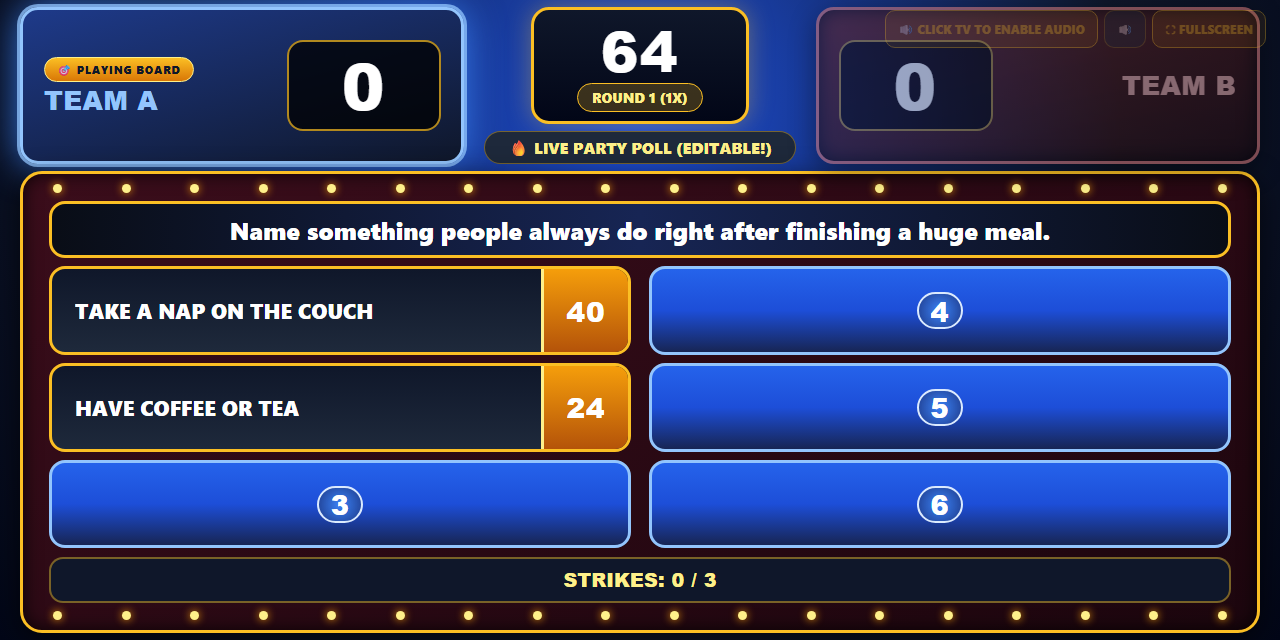
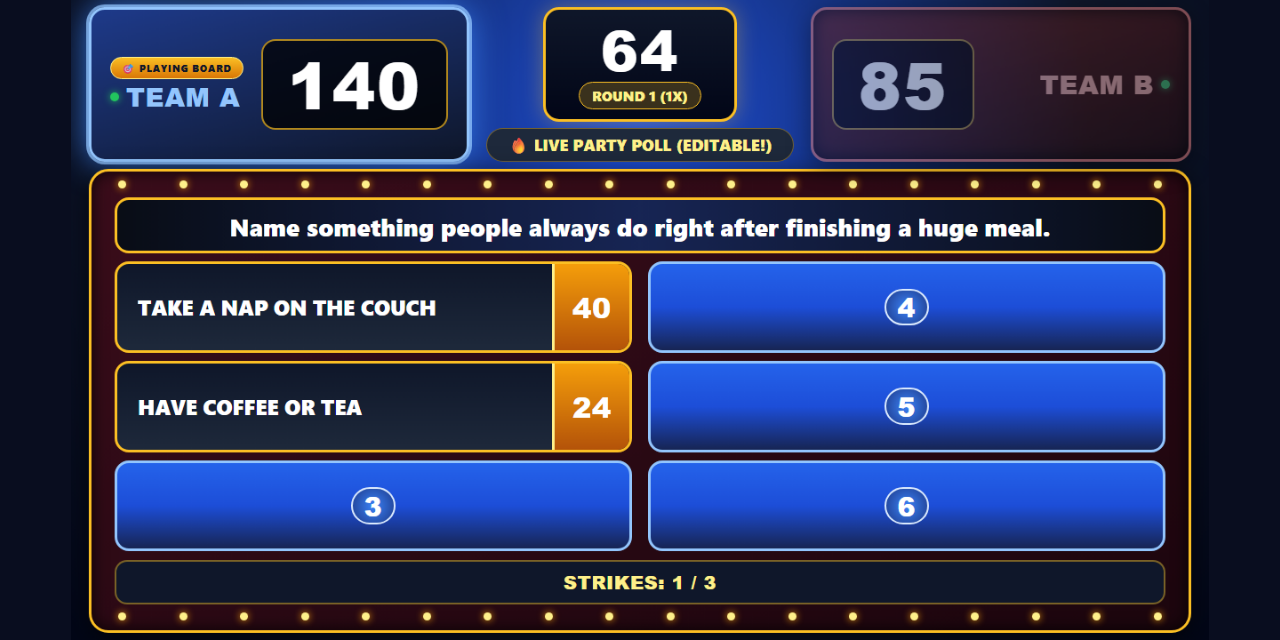
feat(tv): add HUD buzzer status dots and per-team QR token lockout across matches
- Add green/red buzzer status dots (#tvT1BuzzerDot, #tvT2BuzzerDot) next to
  each team name on the TV HUD (index.html, css/styles.css, js/views.js).
- Add per-team QR tokens (?bt=) in js/state.js, js/app.js, and js/views.js so
  returning teams and Combo Buzzers stay connected across Next Match /
  Tournament transitions while eliminated phones are locked out with a
  "Match Over" message and the TV Welcome Screen re-appears for new teams.
- Add E2E assertions for TV HUD buzzer dots, Next Match Combo persistence,
  and stale token lockout in scripts/test-ui-e2e.js.
- Update README.md and refresh docs/screenshots/{tv-welcome,tv-board,
  host-remote,team-buzzer,combo-buzzer,social-preview}.png.

Changed region(s): [[0.0, 0.0, 1.0, 1.0], [0.8125, 0.0, 1.0, 0.1875], [0.4688, 0.6875, 0.5312, 0.75]]

diff --git a/js/app.js b/js/app.js
@@ -12,6 +12,7 @@ window.Feud = window.Feud || {};
 (function (Feud) {
   let activeRole = "lobby"; // 'lobby' | 'host' | 'tv' | 'buzzer1' | 'buzzer2' | 'solo'
   let currentRoomCode = "";
+  let localBuzzerToken = "";
   let roomState = Feud.createDefaultRoomState("1234");
 
   let lastStrikeSeq = 0;
@@ -280,6 +281,17 @@ window.Feud = window.Feud || {};
         Boolean(roomState.questionRevealed) &&
         !roomState.buzzerWinner;
       roomState = { ...roomState, ...incoming };
+      if (activeRole === "buzzer1" || activeRole === "buzzer2") {
+        const tKey = activeRole === "buzzer1" ? "t1" : "t2";
+        const expectedTok = incoming.buzzerTokens && incoming.buzzerTokens[tKey];
+        if (localBuzzerToken && expectedTok && expectedTok !== localBuzzerToken) {
+          roomState._localBuzzerStale = true;
+          renderActiveView();
+          if (Feud.cleanupSync) Feud.cleanupSync();
+          Feud.showToast("🏁 Match Over — New teams are playing!");
+          return;
+        }
+      }
       const nowBuzzArmed =
         (roomState.roundPhase || (roomState.questionRevealed ? "faceoff-buzz" : "faceoff-ready")) === "faceoff-buzz" &&
         Boolean(roomState.questionRevealed) &&
@@ -1162,6 +1174,8 @@ window.Feud = window.Feud || {};
       pot: 0,
       strikes: 0,
       buzzerWinner: 0,
+      buzzerTokens: { t1: Feud.generateRoomCode(), t2: Feud.generateRoomCode() },
+      buzzerStatus: { b1: false, b2: false, combo: false },
       showTvWelcome: mode === "host" && !isFileProtocol(),
       tvWelcomeInfo: null,
       fmClock: 20,
@@ -1387,9 +1401,6 @@ window.Feud = window.Feud || {};
 
     roomState = { ...roomState, ...conn.state };
     currentRoomCode = code;
-    if (roomState.showTvWelcome) {
-      roomState.tvWelcomeInfo = buildTvWelcomeInfo("individual", null, code);
-    }
     syncSequenceCounters(roomState);
     // An auto-launched TV window shares localStorage with the Host window — don't overwrite the Host's saved session/PIN
     if (!autoLaunched) Feud.saveLastSession("tv", code);
@@ -1476,11 +1487,20 @@ window.Feud = window.Feud || {};
     });
     if (!conn || conn.handedOffToPopup) return;
 
-    roomState = { ...roomState, ...conn.state };
-    currentRoomCode = code;
-    if (roomState.showTvWelcome) {
-      roomState.tvWelcomeInfo = buildTvWelcomeInfo("individual", null, code);
+    const urlBt = (new URLSearchParams(window.location.search).get("bt") || "").trim();
+    const tKey = teamNum === 1 ? "t1" : "t2";
+    const expectedTok = (conn.state && conn.state.buzzerTokens && conn.state.buzzerTokens[tKey]) || "";
+    if (urlBt && expectedTok && urlBt !== expectedTok) {
+      roomState = { ...roomState, ...conn.state, _localBuzzerStale: true };
+      currentRoomCode = code;
+      enterRole(role, code);
+      if (Feud.cleanupSync) Feud.cleanupSync();
+      Feud.showToast("🏁 This QR code expired — scan the new team's QR!");
+      return;
     }
+    localBuzzerToken = urlBt || expectedTok;
+    roomState = { ...roomState, ...conn.state, _localBuzzerStale: false };
+    currentRoomCode = code;
     syncSequenceCounters(roomState);
     Feud.saveLastSession(role, code);
     enterRole(role, code);
@@ -1511,9 +1531,6 @@ window.Feud = window.Feud || {};
 
     roomState = { ...roomState, ...conn.state };
     currentRoomCode = code;
-    if (roomState.showTvWelcome) {
-      roomState.tvWelcomeInfo = buildTvWelcomeInfo("individual", null, code);
-    }
     syncSequenceCounters(roomState);
     Feud.saveLastSession(role, code);
     enterRole(role, code);
@@ -1983,6 +2000,23 @@ window.Feud = window.Feud || {};
       nextTournament = Feud.createTournamentBracket(nextTournament.teams);
     }
 
+    const oldTokens = (roomState && roomState.buzzerTokens) || { t1: "T1A", t2: "T2A" };
+    const t1Changed = String(t1).trim().toLowerCase() !== String(roomState.team1Name || "").trim().toLowerCase();
+    const t2Changed = String(t2).trim().toLowerCase() !== String(roomState.team2Name || "").trim().toLowerCase();
+    const nextTokens = {
+      t1: t1Changed ? Feud.generateRoomCode() : oldTokens.t1,
+      t2: t2Changed ? Feud.generateRoomCode() : oldTokens.t2
+    };
+    const curBz = Feud.getConnectedBuzzerTeams ? Feud.getConnectedBuzzerTeams() : {};
+    const nextBz = {
+      b1: t1Changed ? false : Boolean(curBz.b1),
+      b2: t2Changed ? false : Boolean(curBz.b2),
+      combo: Boolean(curBz.combo)
+    };
+    roomState.buzzerTokens = nextTokens;
+    const qrSupported =
+      activeRole === "host" && !isFileProtocol() && currentRoomCode !== "SOLO" && currentRoomCode !== "DEMO";
+
     closeNextMatchModal();
     await pushRoomPatch({
       stage: "main",
@@ -2009,11 +2043,10 @@ window.Feud = window.Feud || {};
       pot: 0,
       strikes: 0,
       buzzerWinner: 0,
-      showTvWelcome: activeRole === "host" && !isFileProtocol() && currentRoomCode !== "SOLO" && currentRoomCode !== "DEMO",
-      tvWelcomeInfo:
-        activeRole === "host" && !isFileProtocol() && currentRoomCode !== "SOLO" && currentRoomCode !== "DEMO"
-          ? buildTvWelcomeInfo(null, null, currentRoomCode)
-          : null,
+      buzzerTokens: nextTokens,
+      buzzerStatus: nextBz,
+      showTvWelcome: qrSupported,
+      tvWelcomeInfo: qrSupported ? buildTvWelcomeInfo(null, nextBz, currentRoomCode) : null,
       team1Name: t1,
       team2Name: t2,
       team1Score: 0,
@@ -2254,7 +2287,14 @@ window.Feud = window.Feud || {};
   function buildQrJoinUrl(role) {
     const code = currentRoomCode || "SOLO";
     const baseUrl = getQrBaseUrl();
-    return `${baseUrl}?room=${encodeURIComponent(code)}&role=${encodeURIComponent(role)}`;
+    const tokens = (roomState && roomState.buzzerTokens) || {};
+    let url = `${baseUrl}?room=${encodeURIComponent(code)}&role=${encodeURIComponent(role)}`;
+    if (role === "buzzer1" && tokens.t1) {
+      url += `&bt=${encodeURIComponent(tokens.t1)}`;
+    } else if (role === "buzzer2" && tokens.t2) {
+      url += `&bt=${encodeURIComponent(tokens.t2)}`;
+    }
+    return url;
   }
 
   async function copyQrJoinUrl(role = "tv") {
@@ -2429,16 +2469,38 @@ window.Feud = window.Feud || {};
   }
 
   function syncTvWelcomeWithBuzzers(bz) {
-    if (activeRole !== "host" || !roomState || !roomState.showTvWelcome) return;
-    const nextInfo = buildTvWelcomeInfo(null, bz, currentRoomCode);
-    const prev = roomState.tvWelcomeInfo || {};
-    if (
-      prev.b1Connected !== nextInfo.b1Connected ||
-      prev.b2Connected !== nextInfo.b2Connected ||
-      prev.comboConnected !== nextInfo.comboConnected ||
-      prev.qrMode !== nextInfo.qrMode
-    ) {
-      pushRoomPatch({ tvWelcomeInfo: nextInfo });
+    if (activeRole !== "host" || !roomState) return;
+    const info = bz || (Feud.getConnectedBuzzerTeams ? Feud.getConnectedBuzzerTeams() : {});
+    const prevStatus = roomState.buzzerStatus || {};
+    const nextStatus = {
+      b1: Boolean(info.b1),
+      b2: Boolean(info.b2),
+      combo: Boolean(info.combo)
+    };
+    const statusChanged =
+      Boolean(prevStatus.b1) !== nextStatus.b1 ||
+      Boolean(prevStatus.b2) !== nextStatus.b2 ||
+      Boolean(prevStatus.combo) !== nextStatus.combo;
+
+    const patch = {};
+    if (statusChanged) patch.buzzerStatus = nextStatus;
+
+    if (roomState.showTvWelcome) {
+      const nextInfo = buildTvWelcomeInfo(null, nextStatus, currentRoomCode);
+      const prev = roomState.tvWelcomeInfo || {};
+      if (
+        prev.b1Connected !== nextInfo.b1Connected ||
+        prev.b2Connected !== nextInfo.b2Connected ||
+        prev.comboConnected !== nextInfo.comboConnected ||
+        prev.qrMode !== nextInfo.qrMode ||
+        prev.url1 !== nextInfo.url1 ||
+        prev.url2 !== nextInfo.url2
+      ) {
+        patch.tvWelcomeInfo = nextInfo;
+      }
+    }
+    if (Object.keys(patch).length > 0) {
+      pushRoomPatch(patch);
     }
   }
 

diff --git a/scripts/test-ui-e2e.js b/scripts/test-ui-e2e.js
@@ -1039,6 +1039,14 @@ async function runStep(name, fn) {
         assert.strictEqual(partialQr.t2QrVisible, true, "Team 2 QR code should remain visible while waiting for Team 2");
         assert.strictEqual(partialQr.overlayStillOpen, true, "TV QR overlay should remain open until both buzzers connect");
 
+        // Verify TV HUD buzzer dots reflect Team 1 online (green) and Team 2 offline (red)
+        const hudDotsPartial = await cdp.eval(`({
+          t1Online: document.getElementById('tvT1BuzzerDot')?.classList.contains('is-online'),
+          t2Offline: document.getElementById('tvT2BuzzerDot')?.classList.contains('is-offline')
+        })`);
+        assert.strictEqual(hudDotsPartial.t1Online, true, "TV HUD Team 1 buzzer dot should be green when connected");
+        assert.strictEqual(hudDotsPartial.t2Offline, true, "TV HUD Team 2 buzzer dot should be red when disconnected");
+
         // Now connect Team 2 -> TV QR overlay must auto-hide completely!
         b2Conn = await openTab(`${baseUrl}/index.html?room=${roomCode}&role=buzzer2`);
         await b2Conn.tabCdp.waitFor("!document.getElementById('buzzerView').classList.contains('hidden')");
@@ -1157,9 +1165,48 @@ async function runStep(name, fn) {
         // Team 1 presses Combo Buzzer -> Host & TV lock Blue Blazers!
         await comboConn.tabCdp.eval(`window.pressComboBuzzer(1)`);
         await cdp.waitFor("/Blue Blazers/i.test(document.getElementById('hostFlowHeadline')?.textContent || '')");
+
+        // Next Match with Combo Buzzer connected: Welcome Screen returns, Combo stays connected & updates team names!
+        await cdp.eval(`(async () => {
+          window.openNextMatchModal();
+          document.getElementById('nextMatchTeam1Input').value = 'Blue Blazers';
+          document.getElementById('nextMatchTeam2Input').value = 'Green Giants';
+          await window.confirmStartNextMatch();
+        })()`);
+        await cdp.waitFor("!document.getElementById('tvWelcomeWrap').classList.contains('hidden')");
+        await comboConn.tabCdp.waitFor("/GREEN GIANTS/i.test(document.getElementById('comboTitleT2')?.textContent || '')");
+        const nextMatchCombo = await cdp.eval(`({
+          comboActive: !document.getElementById('tvWelcomeQrConnectedCombo').classList.contains('hidden'),
+          t2Name: document.getElementById('tvWelcomeT2Name')?.textContent.trim(),
+          qr2Src: document.getElementById('tvWelcomeQrImgT2')?.getAttribute('src') || ''
+        })`);
+        assert.strictEqual(nextMatchCombo.comboActive, true, "Combo Buzzer should remain active across Next Match");
+        assert.strictEqual(nextMatchCombo.t2Name, "GREEN GIANTS");
+        assert.ok(nextMatchCombo.qr2Src.includes("bt%3D") || nextMatchCombo.qr2Src.includes("bt="), "Team 2 QR should include per-team token");
+        await cdp.eval(`window.hostRevealQuestionAndStartTimer()`);
+        await cdp.waitFor("document.getElementById('tvWelcomeWrap').classList.contains('hidden')");
+
         assert.strictEqual(comboConn.tabCdp.pageErrors.length, 0);
       } finally {
         await comboConn.close();
+      }
+
+      // Clear disconnected Combo presence, then verify stale per-team QR token (?bt=OLD9) is locked out with Match Over message
+      await cdp.eval(`localStorage.removeItem('party_feud_active_buzzers_' + '${roomCode}')`);
+      await cdp.waitFor("/Buzzers: 0\\/2/.test(document.getElementById('hostBuzzerStatusPill')?.textContent || '')");
+      const staleConn = await openTab(`${baseUrl}/index.html?room=${roomCode}&role=buzzer2&bt=OLD9`);
+      try {
+        await staleConn.tabCdp.waitFor("!document.getElementById('buzzerView').classList.contains('hidden')");
+        const staleState = await staleConn.tabCdp.eval(`({
+          disabled: document.getElementById('giantBuzzerBtn')?.disabled,
+          title: document.getElementById('giantBuzzText')?.textContent.trim(),
+          sub: document.getElementById('giantBuzzSub')?.textContent.trim()
+        })`);
+        assert.strictEqual(staleState.disabled, true, "Stale team QR token must lock out buzzer");
+        assert.ok(/Match Over/i.test(staleState.title), `Expected Match Over title, got: ${staleState.title}`);
+        assert.ok(/scan new QR/i.test(staleState.sub), `Expected scan new QR subtitle, got: ${staleState.sub}`);
+      } finally {
+        await staleConn.close();
       }
     });
 

diff --git a/js/views.js b/js/views.js
@@ -1016,6 +1016,33 @@ window.Feud = window.Feud || {};
     document.getElementById("tvTeam2Name").textContent = roomState.team2Name;
     document.getElementById("tvTeam2Score").textContent = String(roomState.team2Score || 0);
 
+    const t1Dot = document.getElementById("tvT1BuzzerDot");
+    const t2Dot = document.getElementById("tvT2BuzzerDot");
+    const showDots = Boolean(
+      typeof window !== "undefined" &&
+        window.location &&
+        window.location.protocol !== "file:" &&
+        !roomState.isDemoMode
+    );
+    const bzLive =
+      activeRole === "host" && Feud.getConnectedBuzzerTeams
+        ? Feud.getConnectedBuzzerTeams()
+        : roomState.buzzerStatus || {};
+    const t1DotOn = Boolean(bzLive.b1 || bzLive.combo);
+    const t2DotOn = Boolean(bzLive.b2 || bzLive.combo);
+    if (t1Dot) {
+      t1Dot.classList.toggle("hidden", !showDots);
+      t1Dot.classList.toggle("is-online", showDots && t1DotOn);
+      t1Dot.classList.toggle("is-offline", showDots && !t1DotOn);
+      t1Dot.title = t1DotOn ? "Team 1 Buzzer Connected" : "Team 1 Buzzer Disconnected";
+    }
+    if (t2Dot) {
+      t2Dot.classList.toggle("hidden", !showDots);
+      t2Dot.classList.toggle("is-online", showDots && t2DotOn);
+      t2Dot.classList.toggle("is-offline", showDots && !t2DotOn);
+      t2Dot.title = t2DotOn ? "Team 2 Buzzer Connected" : "Team 2 Buzzer Disconnected";
+    }
+
     const activeWinnerTeam =
       phase === "round-over"
         ? roomState.roundWinnerTeam || roomState.controllingTeam || 0
@@ -1715,6 +1742,15 @@ window.Feud = window.Feud || {};
       isFaceOffUnderway && (timerRunning || timerExpired || (rawRem > 0 && rawRem < dur));
 
     icon.classList.remove("is-big-timer", "is-urgent");
+    if (roomState._localBuzzerStale) {
+      btn.disabled = true;
+      btn.classList.add("locked-out-state");
+      icon.textContent = "🏁";
+      text.textContent = "Match Over";
+      sub.textContent = "New teams playing — scan new QR to rejoin";
+      if (banner) banner.textContent = "🏁 MATCH OVER — NEW TEAMS PLAYING";
+      return;
+    }
     if (canBuzz) {
       btn.disabled = false;
       btn.classList.add("is-armed");

diff --git a/index.html b/index.html
@@ -607,7 +607,10 @@
       <div id="tvTeam1Card" class="marquee-panel team-display-card tv-team-pod">
         <div class="tv-team-meta">
           <span id="tvTeam1ControlBadge" class="control-badge hidden">🎯 Playing Board</span>
-          <div id="tvTeam1Name" class="team-display-name display-font">Team A</div>
+          <div class="tv-team-name-row">
+            <span id="tvT1BuzzerDot" class="tv-buzzer-dot hidden" title="Team 1 Buzzer Status" aria-hidden="true"></span>
+            <div id="tvTeam1Name" class="team-display-name display-font">Team A</div>
+          </div>
         </div>
         <div id="tvTeam1Score" class="team-display-score display-font">0</div>
       </div>
@@ -636,7 +639,10 @@
         <div id="tvTeam2Score" class="team-display-score display-font">0</div>
         <div class="tv-team-meta">
           <span id="tvTeam2ControlBadge" class="control-badge hidden">🎯 Playing Board</span>
-          <div id="tvTeam2Name" class="team-display-name display-font">Team B</div>
+          <div class="tv-team-name-row">
+            <div id="tvTeam2Name" class="team-display-name display-font">Team B</div>
+            <span id="tvT2BuzzerDot" class="tv-buzzer-dot hidden" title="Team 2 Buzzer Status" aria-hidden="true"></span>
+          </div>
         </div>
       </div>
     </div>

diff --git a/css/styles.css b/css/styles.css
@@ -4520,6 +4520,31 @@ body[data-theme="rose"] .tile-num-badge {
   color: #cbd5e1;
 }
 
+.tv-team-name-row {
+  display: inline-flex;
+  align-items: center;
+  gap: 8px;
+  max-width: 100%;
+}
+
+.tv-buzzer-dot {
+  width: 10px;
+  height: 10px;
+  border-radius: 999px;
+  flex: 0 0 auto;
+  transition: background 0.2s ease, box-shadow 0.2s ease;
+}
+
+.tv-buzzer-dot.is-online {
+  background: #22c55e;
+  box-shadow: 0 0 8px rgba(34, 197, 94, 0.9);
+}
+
+.tv-buzzer-dot.is-offline {
+  background: #ef4444;
+  box-shadow: 0 0 6px rgba(239, 68, 68, 0.7);
+}
+
 .ai-builder-textarea {
   width: 100%;
   min-height: 150px;

diff --git a/js/state.js b/js/state.js
@@ -939,6 +939,8 @@ window.Feud.ROOM_WORDS = window.Feud.DEFAULT_DECK.roomWords;
       buzzerWinner: 0,
       buzzerWinnerAt: 0,
       buzzerRunnerUpDeltaMs: 0,
+      buzzerTokens: { t1: "T1A", t2: "T2A" },
+      buzzerStatus: { b1: false, b2: false, combo: false },
       showTvWelcome: false,
       tvWelcomeInfo: null,
       tvQrOverlay: null,

diff --git a/README.md b/README.md
@@ -79,7 +79,7 @@ Launch straight into any bundled question deck with one click — or open the pr
 
 ## ✨ Why Hosts & Players Love It
 
-* **📺 Real TV Show Presentation, Welcome Splash & Themes:** Starts with an automatic **TV Welcome Screen** (centered deck, round count, and flow summary at top; **Team A** QR on left, **`VS` + 1-Phone Combo** QR in center, **Team B** QR on right with live `Connected ✓` badges — mirrored in the Host's Mini TV and auto-dismissed on **Show Question (`Space`)** or toggled via `⋯`), then transitions into the 16:9 board with 3D flipping answer tiles, 4 selectable **Board Themes** (*Classic Blue & Gold*, *Holiday Red & Green*, *FRC Robotics Neon*, *Classroom Clean*), giant red `X` strike overlays, escalating 3-second countdown tension audio, game-show dings/buzzers/fanfare, and a **Match Champion** celebration screen.
+* **📺 Real TV Show Presentation, Welcome Splash & Themes:** Starts with an automatic **TV Welcome Screen** (centered deck, round count, and flow summary at top; **Team A** QR on left, **`VS` + 1-Phone Combo** QR in center, **Team B** QR on right with live `Connected ✓` badges — re-shown before Round 1 of each Tournament / Next Match with unique per-team QR tokens that lock out eliminated phones while keeping returning teams and Combo Buzzers connected; mirrored in the Host's Mini TV and auto-dismissed on **Show Question (`Space`)** or toggled via `⋯`), plus subtle green/red buzzer status dots next to each Team Name on the TV HUD, 3D flipping answer tiles, 4 selectable **Board Themes** (*Classic Blue & Gold*, *Holiday Red & Green*, *FRC Robotics Neon*, *Classroom Clean*), giant red `X` strike overlays, escalating 3-second countdown tension audio, game-show dings/buzzers/fanfare, and a **Match Champion** celebration screen.
 * **🎙 Stress-Free Hosting & 1-Click Demo:** Try the **▶ 10-Second Interactive Demo** right from the Lobby, or host with a full answer key, **live mini TV preview**, **step-by-step coach**, collapsible **Host Script** (`SAY` / `DO`), and **25-step Undo**.
 * **🔔 Phone Buzzers (Haptics, Tie-Lockout Delta & Re-Arm):** Scan a QR code from the TV or Host screen to join as **Team 1 Buzzer**, **Team 2 Buzzer**, or **Combo Buzzer** (both teams on one shared phone/iPad). Includes `pointerdown` instant triggering, a `30ms` "Get Ready" haptic pulse when buzzers arm, win/lose flashes with exact runner-up delta feedback (`Too slow (+0.18s)`), a pre-game **🔔 Test Buzz** ping (Host ↔ Phone), and one-tap **🔄 Re-Arm Buzzers** on Host.
 * **🏆 3-Team & 4-Team Tournament Brackets:** Switch from Classic 2-Team play to a **3-Team Mini Bracket** (`2` games) or **4-Team Tournament** (`3` games: Semifinals → Championship Final) whenever the chosen deck has enough regular rounds to guarantee unique questions across every match.
